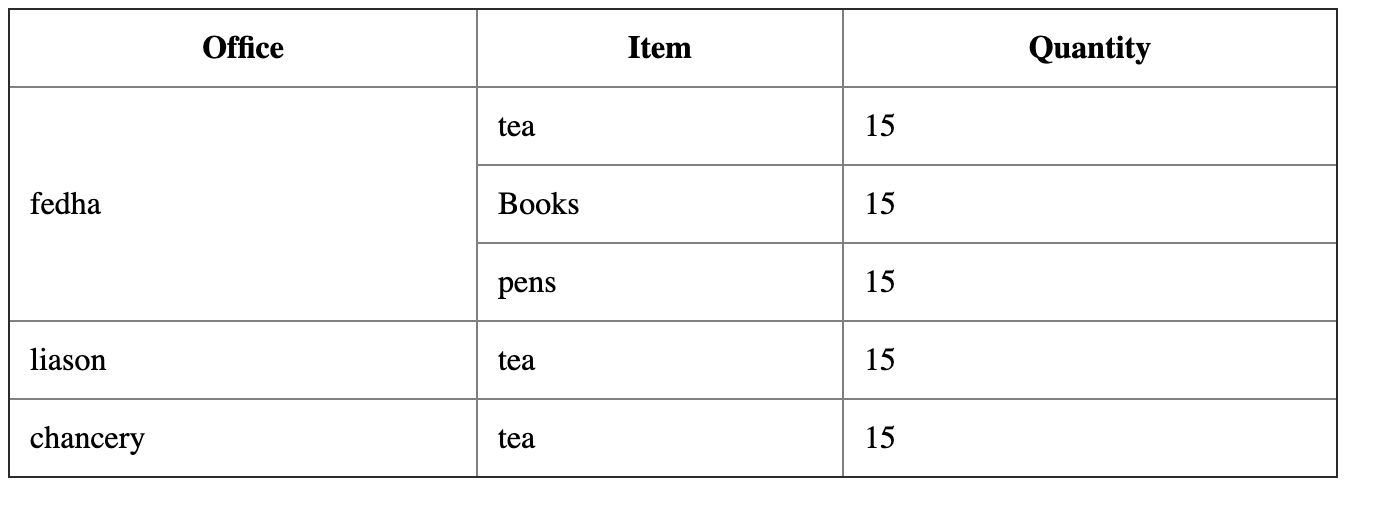
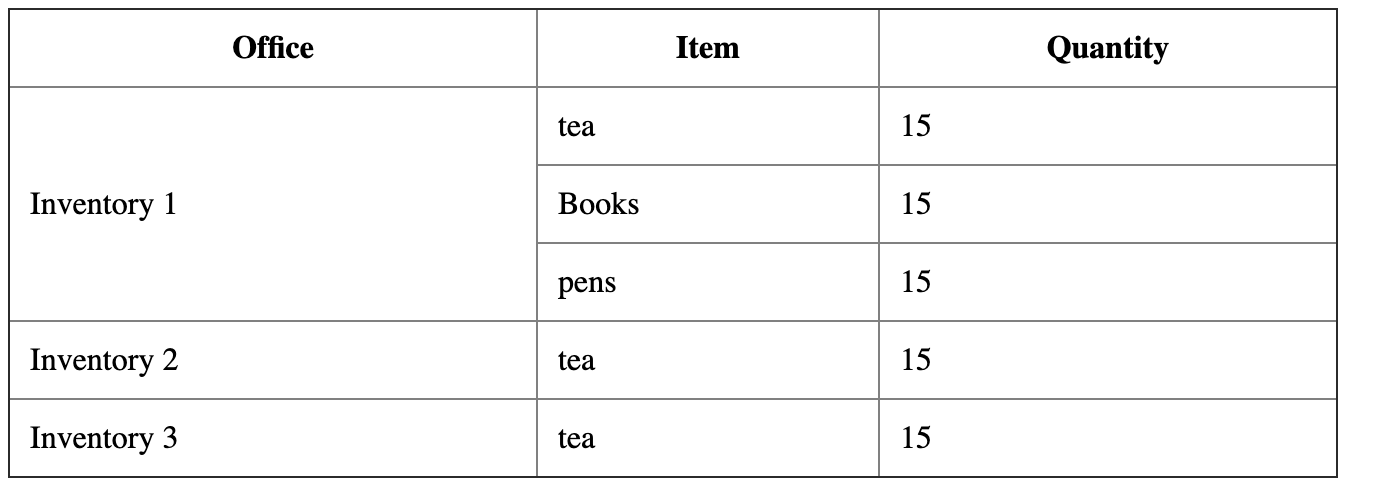
update details

diff --git a/data.js b/data.js
@@ -3,7 +3,7 @@
  */
 let data = [
     {
-        office: 'fedha',
+        office: 'Inventory 1',
         items: [
             {
                 name: 'tea',
@@ -20,7 +20,7 @@ let data = [
         ]
     },
     {
-        office: 'liason',
+        office: 'Inventory 2',
         items: [
             {
                 name: 'tea',
@@ -29,7 +29,7 @@ let data = [
         ]
     },
     {
-        office: 'chancery',
+        office: 'Inventory 3',
         items: [
             {
                 name: 'tea',
